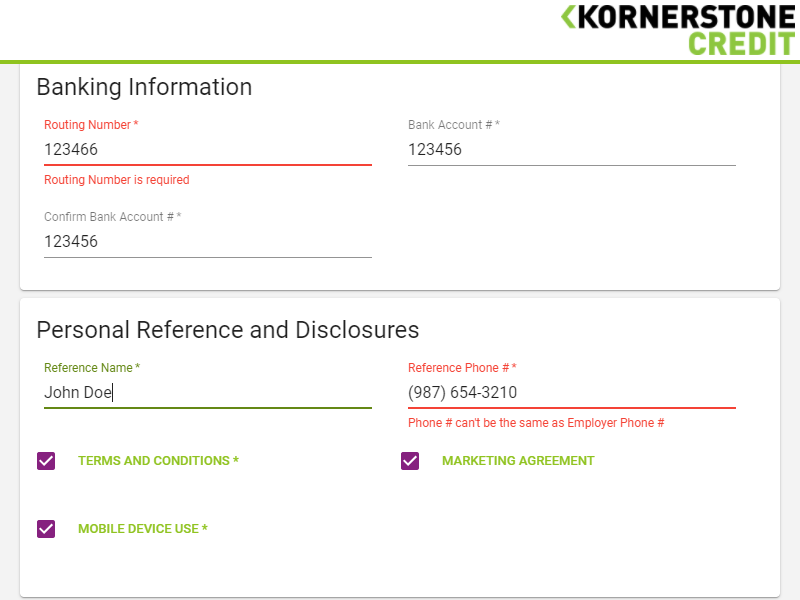
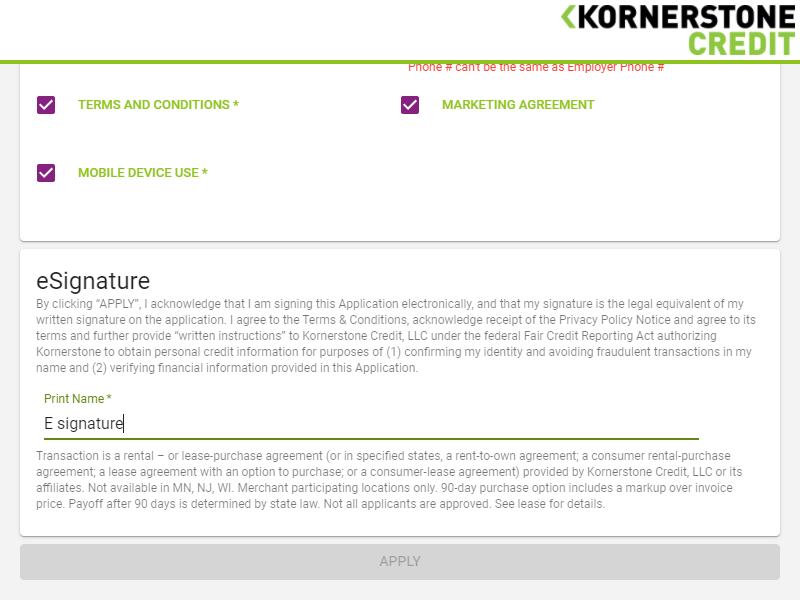
e signature added

diff --git a/test1.js b/test1.js
@@ -7,7 +7,7 @@ const puppeteer = require('puppeteer');
     });
     const page = await browser.newPage();
 
-    await page.goto('https://app.kornerstonecredit.com/Apply/ella_furniture', {
+    await page.goto('https://apply.kornerstonecredit.com/new?r=14814', {
         "waitUntil": "networkidle0"
     });
 
@@ -142,6 +142,11 @@ const puppeteer = require('puppeteer');
     await referencePhoneNumber.type(reference_phone_number);
 
 
+    var e_signature = process.env.e_signature;
+    const eSignature = await page.$('#eSignature');
+    await eSignature.type(e_signature);
+
+    
     
   
 
